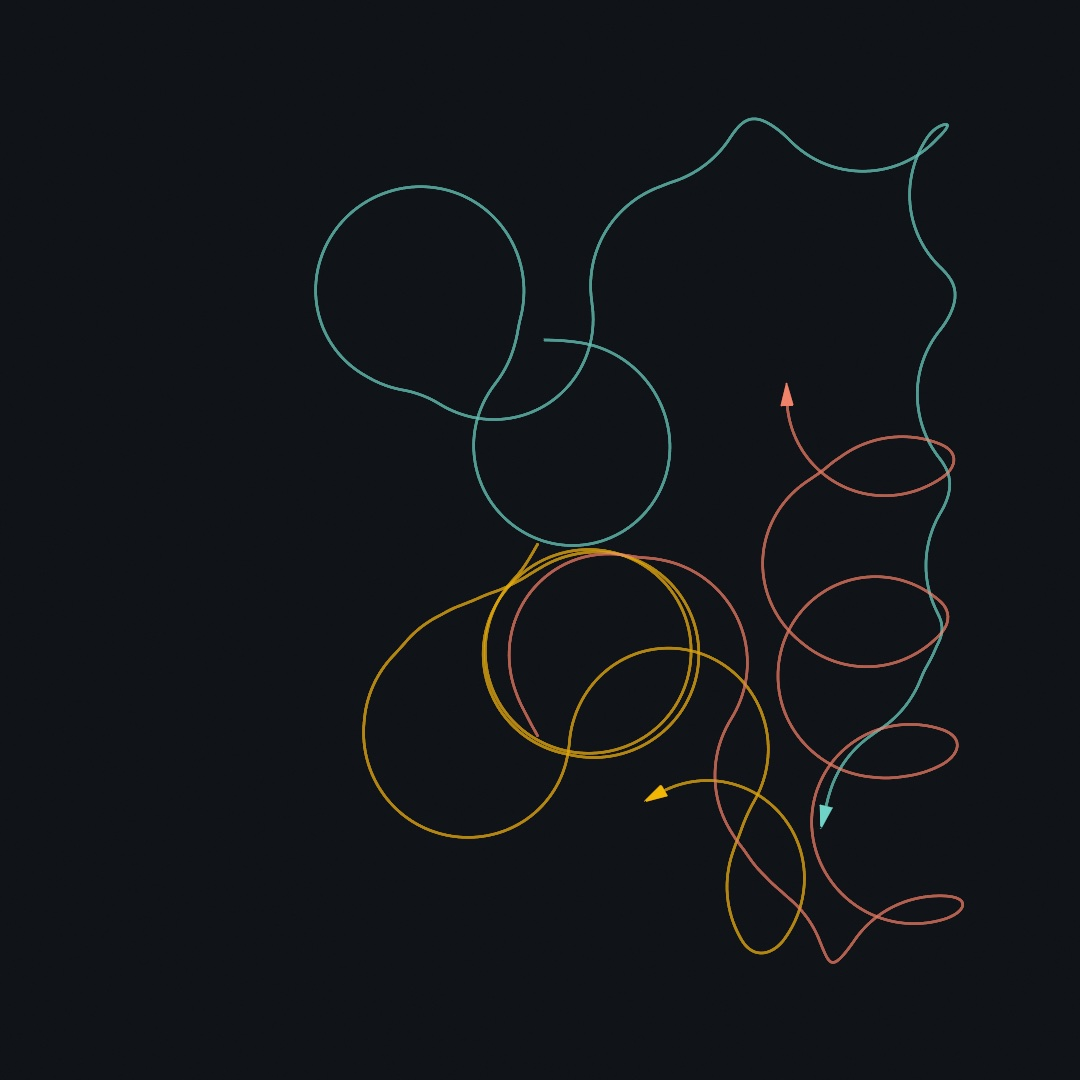
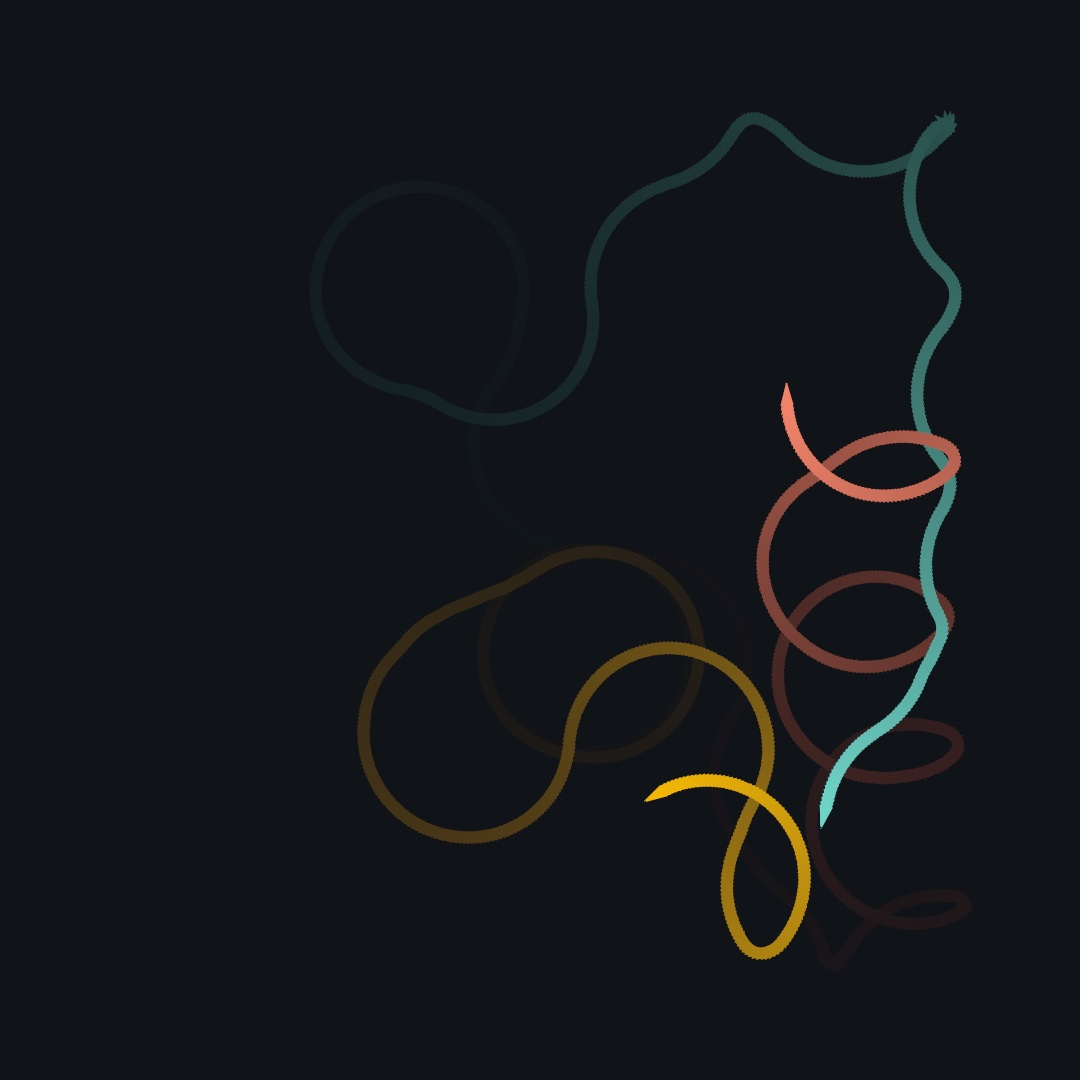
The Mac pass over the reshaped chapters 10 through 12. The two new figures are rendered and placed: the thrown ball at frame 600 rather than 300, since the trail keeps two hundred positions taken every third frame and 600 is the last frame on which it holds the whole flight, from the throw's rise on
Claude-Session: https://claude.ai/code/session_01WqLtBAH3GLezrn1E1FY2W7

diff --git a/Guide/Figures/10-Vectors/Thrown.swift b/Guide/Figures/10-Vectors/Thrown.swift
@@ -1,10 +1,12 @@
-// figure: frame=300
+// figure: frame=600
 //
 // Guide sketch (Chapter 10): the motion trio throwing a ball. Gravity bends
 // the velocity, the velocity moves the position, and the floor flips the
 // vertical part of the velocity while taking a little of both parts. The
 // trail keeps the ball's recent positions so a still shows the arc and the
-// bounces, not only where the ball is now.
+// bounces, not only where the ball is now. Frame 600 is the last one on
+// which the trail still holds the whole flight, from the throw's rise on the
+// left through the two full bounces to the ball settling at the right.
 import Ollin
 
 final class Thrown: Sketch {

diff --git a/Guide/Figures/12-FlocksAndSwarms/Wanderer.swift b/Guide/Figures/12-FlocksAndSwarms/Wanderer.swift
@@ -30,7 +30,7 @@ final class Wanderer: Sketch {
 
         // Fade the last frame a little instead of erasing it: trails.
         noStroke()
-        fill(Color(hex: 0x101318).withAlpha(0.03))
+        fill(Color(hex: 0x101318).withAlpha(0.01))
         drawRect(bounds)
 
         for (i, creature) in creatures.enumerated() {

diff --git a/Guide/12-FlocksAndSwarms.md b/Guide/12-FlocksAndSwarms.md
@@ -134,7 +134,7 @@ final class Wanderer: Sketch {
 
         // Fade the last frame a little instead of erasing it: trails.
         noStroke()
-        fill(Color(hex: 0x101318).withAlpha(0.03))
+        fill(Color(hex: 0x101318).withAlpha(0.01))
         drawRect(bounds)
 
         for (i, creature) in creatures.enumerated() {
@@ -149,7 +149,7 @@ final class Wanderer: Sketch {
 
 Two behaviors are stacked here, and that is the point of forces that compose. `wander` supplies the roaming and `contain` supplies the walls, a push back inside the canvas that only wakes up within `margin` of an edge. Each creature has its own `seed`, because wander is the one behavior that draws random numbers. Two creatures with the same seed roam in lockstep.
 
-The trails are the `noClear` at work. `background(...)` runs once, in `setup()`, to lay the ground. Then every frame paints the same color over the whole canvas at three percent opacity. Each old triangle fades a little further, and the string of them behind a creature reads as a tail. The alpha is the trail's length. Raise it to `0.16` and the tails shorten to a fraction of a second. Lower it to `0.01` and they last ten seconds or so. The finished sketch uses this same trick, and [Chapter 19](19-LayersAndEffects.md) takes the persistent canvas much further, into accumulation and long-exposure looks.
+The trails are the `noClear` at work. `background(...)` runs once, in `setup()`, to lay the ground. Then every frame paints the same color over the whole canvas at one percent opacity. Each old triangle fades a little further, and the string of them behind a creature reads as a tail that lasts ten seconds or so. The alpha is the trail's length. Raise it to `0.16` and the tails shorten to a fraction of a second. Lower it to `0.003` and they last half a minute. The finished sketch uses this same trick, and [Chapter 19](19-LayersAndEffects.md) takes the persistent canvas much further, into accumulation and long-exposure looks.
 
 The rest of the behavior shelf works the same way, so a list will do. `pursue` and `evade` chase and dodge a *moving* target. They aim where it will be rather than where it is, the way a cat cuts off a mouse. `follow(path:)` keeps a creature inside a corridor along a polyline, correcting only when it strays. `follow(_ field:)` follows the flow fields coming in [Chapter 14](14-FieldsAndFlow.md). `separate(from:)` keeps personal space within a group, and the flock's first rule below is built on it. The `Motion/Steering` example runs most of the shelf in one scene, and the [steering reference](../Docs/Generators/Steering.md) has every parameter.
 

diff --git a/Guide/10-Vectors.md b/Guide/10-Vectors.md
@@ -165,7 +165,7 @@ final class Thrown: Sketch {
 }
 ```
 
-<!-- figure: Thrown (Guide/Figures/10-Vectors/Thrown.swift), waiting on a render; embed Images/10-Vectors/Thrown.jpg here at width 560 -->
+<img src="Images/10-Vectors/Thrown.jpg" alt="A dark canvas with a thin gray floor line near the bottom. A trail of faint amber dots rises from the lower left, peaks, falls to the floor, and bounces on in a row of ever smaller arcs toward the right, where a solid amber ball is coming to rest on the line" width="560">
 
 Run it and a ball arcs across, bounces, and settles. Notice what is stored and what is not. `position` and `velocity` are properties, alive between frames, because motion with memory is stored state. It is the first time this guide writes that state by hand. `gravity` never changes, but every frame it bends `velocity` a little, and the bend is what makes the arc. The bounce is two lines. Put the ball back on the floor, then flip the vertical part of the velocity and keep less than all of it. The `0.82` is the bounciness. The floor takes a little of the sideways speed too, the `0.7`. That is friction, and it is why the ball settles instead of rolling off the edge. Both `+=` lines scale by `deltaTime`, so the throw is the same at 60 and 120 frames a second. The trail is 200 of the ball's recent positions, one every third frame, kept in a list and drawn as faint dots. It lets you see the arc after the ball has left it.
 

diff --git a/Guide/11-ForcesAndPhysics.md b/Guide/11-ForcesAndPhysics.md
@@ -293,7 +293,7 @@ final class Tumble: Sketch {
 }
 ```
 
-<!-- figure: Tumble (Guide/Figures/11-ForcesAndPhysics/Tumble.swift), waiting on a render; embed Images/11-ForcesAndPhysics/Tumble.jpg here at width 560 -->
+<img src="Images/11-ForcesAndPhysics/Tumble.jpg" alt="Rounded boxes in coral, sand, sage, and lavender and pale cream discs lie in a jumble along the bottom of a dark canvas, some flat, some tilted, a few propped on others, every corner intact, with the space above them empty" width="560">
 
 Twenty-four bodies start in a loose grid, each box turned to a random angle, and fall. They land on their corners, tip over, slide off each other, and come to rest in a jumble that keeps every corner. The world is the same one that piled the discs, with the same `bounds` for walls and the same `advance(by:)` each frame. A particle only had a position, and a body has a `position` *and* an `angle`. So drawing one takes the transform tools from [Chapter 6](06-GridsAndRepetition.md): move to the body, turn to its angle, and draw the shape centered on zero. When a box tumbles, the rectangle you draw tumbles with it, because the rotation is the simulation's own. The discs need no turn, since a circle looks the same at every angle. The world does not remember what a body looks like, only its shape for collisions. So the sketch keeps its boxes and discs in two lists of its own and draws each list its own way.
 
